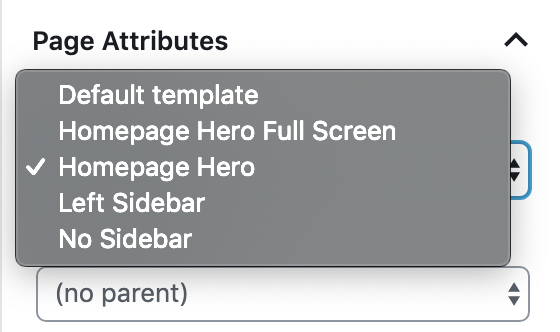
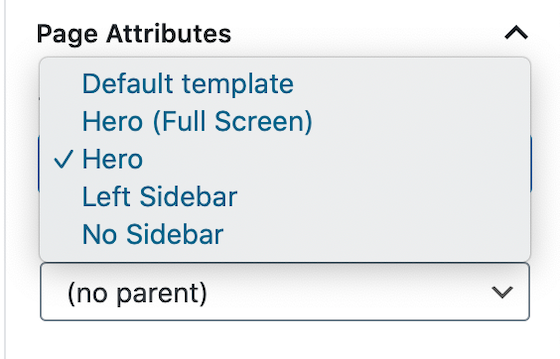
Akurai v1.1.2

diff --git a/docs/akurai/page-templates/index.html b/docs/akurai/page-templates/index.html
@@ -567,13 +567,15 @@ The sidebar used in Left Sidebar templates is called <strong>Left Sidebar</stron
 <p>The <strong>No Sidebar</strong> or <strong>Full Width</strong> template layout has only content area covering its 100% width.
 There's no sidebar used.</p>
 <p><img src="/assets/images/akurai/akurai-template-no-sidebar.png" alt="Akurai No Sidebar Template" /></p>
+<h3>Templates with Heros</h3>
+<p>Since version 1.1.2, you can use Hero templates for regular pages as well. They were initially intended to be used as front pages only, however now you can use them for any landing page on your website. Check them out <a href="/docs/akurai/homepage-templates">here</a>.</p>
 <hr />
 <h3>Next Step</h3>
 <p><a href="/docs/akurai/homepage-templates/">Widget Areas</a></p>        </div>
 
         <nav id="js-page-menu" class="page-menu hidden py-8 lg:w-48 lg:max-w-sidebar lg:block sticky" style="top: 4rem;">
             <h4 class="mb-8 font-bold text-grey text-lg pb-1 border-b inline-block">
-                AKURAI v1.1.1
+                AKURAI v1.1.2
             </h4>
 
             <div id="page-menu-wrapper" class="mb-8"></div>

diff --git a/docs/akurai/homepage-templates/index.html b/docs/akurai/homepage-templates/index.html
@@ -555,6 +555,9 @@
 <li>Default Template</li>
 </ol>
 <p><img src="/assets/images/akurai/homepage/home-templates.png" alt="Akurai Page Templates" /></p>
+<hr />
+<h2>SINCE VERSION 1.1.2 YOU CAN USE THESE TEMPLATES FOR REGULAR PAGES AS WELL.</h2>
+<hr />
 <h3>Homepage Hero Template</h3>
 <p>To use the <strong>Homepage Hero Template</strong> select it in templates list and you'll have the Hero options below the content editor. Fill in the fields, adjust them and save the changes.</p>
 <p><img src="/assets/images/akurai/homepage/home-hero-admin.png" alt="Akurai Default Template" /></p>
@@ -578,7 +581,7 @@
 
         <nav id="js-page-menu" class="page-menu hidden py-8 lg:w-48 lg:max-w-sidebar lg:block sticky" style="top: 4rem;">
             <h4 class="mb-8 font-bold text-grey text-lg pb-1 border-b inline-block">
-                AKURAI v1.1.1
+                AKURAI v1.1.2
             </h4>
 
             <div id="page-menu-wrapper" class="mb-8"></div>

diff --git a/docs/akurai/customizations/index.html b/docs/akurai/customizations/index.html
@@ -579,7 +579,7 @@ In admin dashboard visit <strong>Appearance</strong> &#8594; <strong>Customize</
 
         <nav id="js-page-menu" class="page-menu hidden py-8 lg:w-48 lg:max-w-sidebar lg:block sticky" style="top: 4rem;">
             <h4 class="mb-8 font-bold text-grey text-lg pb-1 border-b inline-block">
-                AKURAI v1.1.1
+                AKURAI v1.1.2
             </h4>
 
             <div id="page-menu-wrapper" class="mb-8"></div>

diff --git a/docs/akurai/widget-areas/index.html b/docs/akurai/widget-areas/index.html
@@ -578,7 +578,7 @@ This way you can have long footer without having to worry about their responsive
 
         <nav id="js-page-menu" class="page-menu hidden py-8 lg:w-48 lg:max-w-sidebar lg:block sticky" style="top: 4rem;">
             <h4 class="mb-8 font-bold text-grey text-lg pb-1 border-b inline-block">
-                AKURAI v1.1.1
+                AKURAI v1.1.2
             </h4>
 
             <div id="page-menu-wrapper" class="mb-8"></div>

diff --git a/docs/akurai/widgets/index.html b/docs/akurai/widgets/index.html
@@ -574,7 +574,7 @@ Add a widget title, choose the sportsbook you want to display from the dropdown 
 
         <nav id="js-page-menu" class="page-menu hidden py-8 lg:w-48 lg:max-w-sidebar lg:block sticky" style="top: 4rem;">
             <h4 class="mb-8 font-bold text-grey text-lg pb-1 border-b inline-block">
-                AKURAI v1.1.1
+                AKURAI v1.1.2
             </h4>
 
             <div id="page-menu-wrapper" class="mb-8"></div>

diff --git a/docs/akurai/index.html b/docs/akurai/index.html
@@ -571,7 +571,7 @@ Here are 4 demos for you:</p>
 
         <nav id="js-page-menu" class="page-menu hidden py-8 lg:w-48 lg:max-w-sidebar lg:block sticky" style="top: 4rem;">
             <h4 class="mb-8 font-bold text-grey text-lg pb-1 border-b inline-block">
-                AKURAI v1.1.1
+                AKURAI v1.1.2
             </h4>
 
             <div id="page-menu-wrapper" class="mb-8"></div>

diff --git a/docs/akurai/blocks-shortcodes/index.html b/docs/akurai/blocks-shortcodes/index.html
@@ -654,7 +654,7 @@ or
 
         <nav id="js-page-menu" class="page-menu hidden py-8 lg:w-48 lg:max-w-sidebar lg:block sticky" style="top: 4rem;">
             <h4 class="mb-8 font-bold text-grey text-lg pb-1 border-b inline-block">
-                AKURAI v1.1.1
+                AKURAI v1.1.2
             </h4>
 
             <div id="page-menu-wrapper" class="mb-8"></div>

diff --git a/docs/akurai/breadcrumbs/index.html b/docs/akurai/breadcrumbs/index.html
@@ -565,7 +565,7 @@
 
         <nav id="js-page-menu" class="page-menu hidden py-8 lg:w-48 lg:max-w-sidebar lg:block sticky" style="top: 4rem;">
             <h4 class="mb-8 font-bold text-grey text-lg pb-1 border-b inline-block">
-                AKURAI v1.1.1
+                AKURAI v1.1.2
             </h4>
 
             <div id="page-menu-wrapper" class="mb-8"></div>

diff --git a/docs/akurai/child-theme/index.html b/docs/akurai/child-theme/index.html
@@ -549,7 +549,7 @@
 
         <nav id="js-page-menu" class="page-menu hidden py-8 lg:w-48 lg:max-w-sidebar lg:block sticky" style="top: 4rem;">
             <h4 class="mb-8 font-bold text-grey text-lg pb-1 border-b inline-block">
-                AKURAI v1.1.1
+                AKURAI v1.1.2
             </h4>
 
             <div id="page-menu-wrapper" class="mb-8"></div>

diff --git a/docs/akurai/creating-review-pages/index.html b/docs/akurai/creating-review-pages/index.html
@@ -595,7 +595,7 @@
 
         <nav id="js-page-menu" class="page-menu hidden py-8 lg:w-48 lg:max-w-sidebar lg:block sticky" style="top: 4rem;">
             <h4 class="mb-8 font-bold text-grey text-lg pb-1 border-b inline-block">
-                AKURAI v1.1.1
+                AKURAI v1.1.2
             </h4>
 
             <div id="page-menu-wrapper" class="mb-8"></div>

diff --git a/docs/akurai/installation/index.html b/docs/akurai/installation/index.html
@@ -570,7 +570,7 @@
 
         <nav id="js-page-menu" class="page-menu hidden py-8 lg:w-48 lg:max-w-sidebar lg:block sticky" style="top: 4rem;">
             <h4 class="mb-8 font-bold text-grey text-lg pb-1 border-b inline-block">
-                AKURAI v1.1.1
+                AKURAI v1.1.2
             </h4>
 
             <div id="page-menu-wrapper" class="mb-8"></div>

diff --git a/docs/akurai/registration/index.html b/docs/akurai/registration/index.html
@@ -563,7 +563,7 @@
 
         <nav id="js-page-menu" class="page-menu hidden py-8 lg:w-48 lg:max-w-sidebar lg:block sticky" style="top: 4rem;">
             <h4 class="mb-8 font-bold text-grey text-lg pb-1 border-b inline-block">
-                AKURAI v1.1.1
+                AKURAI v1.1.2
             </h4>
 
             <div id="page-menu-wrapper" class="mb-8"></div>
